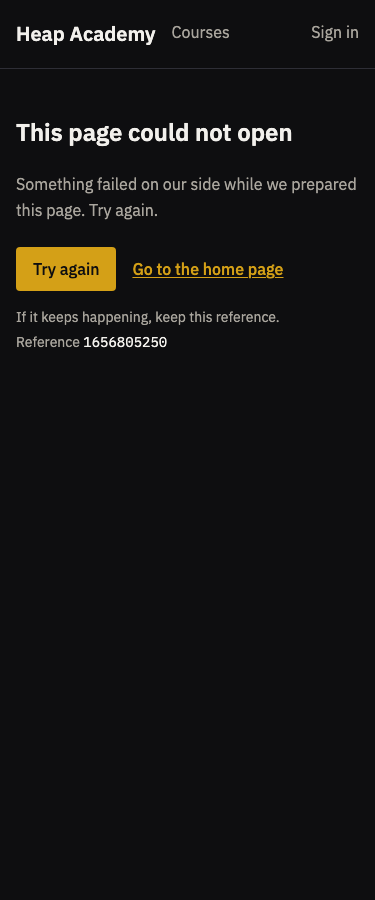
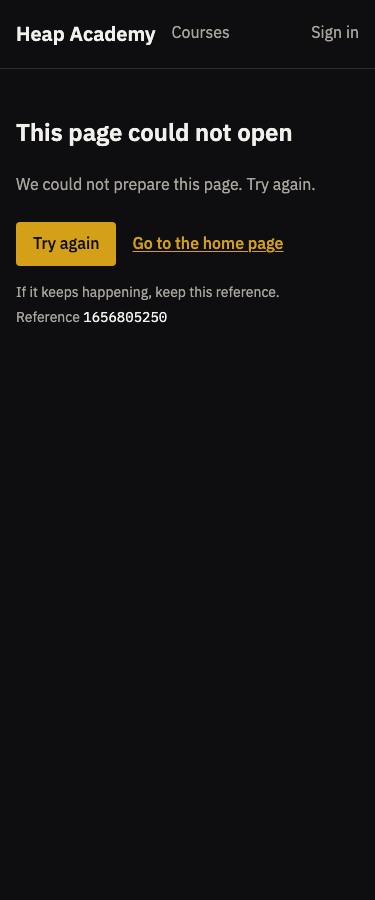
fix(copy): the error page says "We could not prepare this page. Try again."
WP-5.1 owner action 6, decided 2026-11-24. The catalog's error screens
were taken again. Also the WP-5.1 description, part 8, and progress.

Changed region(s): [[0.0293, 0.1867, 0.968, 0.4044]]

diff --git a/src/messages/system.ts b/src/messages/system.ts
@@ -10,7 +10,7 @@ export const notFound = {
 export const errorPage = {
   title: "This page could not open",
   heading: "This page could not open",
-  body: "Something failed on our side while we prepared this page. Try again.",
+  body: "We could not prepare this page. Try again.",
   retry: "Try again",
   homeLink: "Go to the home page",
   referenceHint: "If it keeps happening, keep this reference.",

diff --git a/docs/reports/pull-requests/wp/5.1-catalog.md b/docs/reports/pull-requests/wp/5.1-catalog.md
@@ -1,6 +1,6 @@
 <!-- No AI attribution in this description or in any commit: no co-author trailer, no "Generated with" line, no session link (CLAUDE.md rule 15). -->
 
-**WP-5.1, part 7: built and reviewed three times, with a fourth security review of part 7; not ready to merge until the owner runs the stack journey.** Part 1 built the content layer and the indexing files. Part 2 built the three pages and Courses in the header. Part 3 added the indexing test for every page, a development gallery, the e2e specs with axe, 320 px and screenshots, and the Delivery Gate report from source. Part 4 ran the code, security and design reviews and fixed their findings; the biggest change is that a failed content read now answers 500 with the error page instead of 200 with `noindex`. Part 5 ran the three reviews again and fixed their findings; the biggest fix is to the e2e journey, whose setup could never have passed. Part 6 ran the gallery spec in Chromium for the first time (this sandbox starts Chromium with `--no-sandbox --single-process`), took the screens, ran design review 3, added an e2e spec and screens for the "Could not load" state and for focus, and fixed the spacing the review measured. Part 7 (after your approvals of 2026-11-24) did owner action 7: every cached content reader now builds its client from the same database address that forms its cache key. Still not run: the stack journey (`e2e/catalog-journey.spec.ts`), which needs the local Supabase stack, and with it the screens of the real pages. Base: `wp/4.1-courses-chapters`, because WP-5.1 depends on WP-4.1 and WP-4.1 is not merged yet. Until it merges, this branch also shows WP-4.1's commits.
+**WP-5.1, part 7: built and reviewed three times, with a fourth security review of part 7; not ready to merge until the owner runs the stack journey.** Part 1 built the content layer and the indexing files. Part 2 built the three pages and Courses in the header. Part 3 added the indexing test for every page, a development gallery, the e2e specs with axe, 320 px and screenshots, and the Delivery Gate report from source. Part 4 ran the code, security and design reviews and fixed their findings; the biggest change is that a failed content read now answers 500 with the error page instead of 200 with `noindex`. Part 5 ran the three reviews again and fixed their findings; the biggest fix is to the e2e journey, whose setup could never have passed. Part 6 ran the gallery spec in Chromium for the first time (this sandbox starts Chromium with `--no-sandbox --single-process`), took the screens, ran design review 3, added an e2e spec and screens for the "Could not load" state and for focus, and fixed the spacing the review measured. Part 7 (after your approvals of 2026-11-24) did owner action 7: every cached content reader now builds its client from the same database address that forms its cache key. Part 8 did owner actions 5 and 6 as you decided on 2026-11-24. The lint fix is its own branch from `main`, `wp/fix-lint-template-import`. On this branch, the error page now says "We could not prepare this page. Try again." Still not run: the stack journey (`e2e/catalog-journey.spec.ts`), which needs the local Supabase stack, and with it the screens of the real pages. Base: `wp/4.1-courses-chapters`, because WP-5.1 depends on WP-4.1 and WP-4.1 is not merged yet. Until it merges, this branch also shows WP-4.1's commits.
 
 ## Up to date with main
 
@@ -112,6 +112,11 @@ Part 6, code review 3's findings (commits 9268830 and b911903; report `code-revi
 43. **Comments** (code MINOR 2 and NITs 5, 6): the outage spec says why each page takes about 14 s (the database library tries a refused read three more times, after 1, 2 and 4 s, and a failed view reads twice) and that its port must match `outagePort`; the gallery spec points to the outage spec for a failed read.
 44. **Tests added**: two in `warm-cache.test.ts` (the answers of two databases, list and course page, are kept apart) and one in `public-client.test.ts` (`publicDatabaseAddress` reads the environment when called). All three failed before the change (`Tests  3 failed | 4 passed (7)`), then passed.
 
+Part 8, your decisions of 2026-11-24 on owner actions 5 and 6:
+
+45. **The error page's wording** (`src/messages/system.ts`; design review 2 finding 4, design review 3 finding 9, owner action 6). The body is now "We could not prepare this page. Try again.", as you decided. It replaces WP-1.4's "Something failed on our side while we prepared this page. Try again.". The heading, Try again, the home link and the reference are unchanged. The `catalog-error-*` screens were taken again. No test names the old sentence.
+46. **The lint gap is fixed on its own branch** (owner action 5). `wp/fix-lint-template-import`, from `origin/main` at 7875ee2, pushed. It refuses a computed `import()` or `require()` and checks a backtick name like a quoted one. Its description says how to resolve its conflict with this branch: keep both sides, this branch's `CONTENT_INFRASTRUCTURE` rule and that branch's import handling. Nothing on this branch changed for it.
+
 Left: the owner runs the stack journey (below); the screens of the real pages, the click-through and the current Courses marker on `/courses` appear only then.
 
 ## Work package
@@ -121,6 +126,29 @@ Left: the owner runs the stack journey (below); the screens of the real pages, t
 - Time box: 3 hours. Taken: part 1 ran from about 18:15 to 18:35 on 2026-11-23, part 2 from about 18:40 to 19:05, part 3 from about 19:10 to 19:45, part 4 from about 19:55 to 20:20, part 5 from about 20:35 to 21:05, part 6 from about 13:53 to 15:15 on 2026-11-24 (most of it waiting for the three reviews), about 3.6 hours in all by the clock: over the 3 hour box, under the 4.5 hours at which the handbook says to stop and report.
 
 ## How it was verified
+
+### Part 8
+
+- `src/messages/system.ts`: the error page body is "We could not prepare this page. Try again.".
+- `pnpm verify`, exit 0:
+
+```
+ Test Files  67 passed (67)
+      Tests  1218 passed (1218)
+```
+
+- `next build` with CI's public values: exit 0, the same 15 routes, no `/dev` route.
+- The outage spec against `next start` of that build. It ran on port 3418, with `NEXT_PUBLIC_SUPABASE_URL=http://127.0.0.1:1` and the fake `RESEND_API_KEY` of `playwright.config.ts`, from a temporary Playwright config outside the repository. Chromium ran with `--no-sandbox --single-process` in a project named `chromium`, so the screens are saved. A temporary copy of the spec changed only the port, and was deleted after. Each test ran alone with `-g`:
+
+```
+  ✓  1 [chromium] › e2e/catalog-outage-3418.spec.ts:29:3 › [FR-SYS-01] [NFR-A11Y-02] [NFR-A11Y-05] / shows the error page when the courses cannot be read (14.5s)
+  ✓  1 [chromium] › e2e/catalog-outage-3418.spec.ts:29:3 › [FR-SYS-01] [NFR-A11Y-02] [NFR-A11Y-05] /courses shows the error page when the courses cannot be read (14.5s)
+  ✓  1 [chromium] › e2e/catalog-outage-3418.spec.ts:29:3 › [FR-SYS-01] [NFR-A11Y-02] [NFR-A11Y-05] /courses/python-basics shows the error page when the courses cannot be read (14.5s)
+```
+
+- The nine `catalog-error-*` screens were taken again. Looked at: `catalog-error-courses-375.png` shows the new sentence.
+- The first attempt, on port 3417 without `RESEND_API_KEY`, failed every test (`Invalid environment. See .env.example. RESEND_API_KEY: required`). That was a setup mistake, not the page.
+- Not run: `pnpm test:db` and the stack journey (no Docker). Design review was not run again for a one-sentence copy change the reviewer proposed. WP-1.4's `error-*` screens of `/dev/error` still show the old sentence: they are WP-1.4's evidence and were not taken again.
 
 ### Part 7
 
@@ -365,7 +393,7 @@ Round 2, on `af42bd5..08c8087`; full reports `*-review-2.md`.
 
 Round 3, part 6, on `08c8087..abf86db` and the first 12 screens.
 
-- `design-reviewer` (`design-review-3.md`): **CHANGES REQUIRED**. The reviewer is read-only; its report was saved verbatim. Finding 1 BLOCKER (journey screens, click-through, current marker): open, needs the stack. Finding 2 BLOCKER (no failure screen): fixed, item 38. Finding 3 MAJOR (focus): fixed, item 39. Finding 4 MAJOR (this description out of date, screens uncommitted, R-27 wording, decision 18): fixed in this description and 4c41f93. Finding 5 MAJOR (no primary action): Deviation 1, the owner's decision. Findings 6, 7 and 10 MINOR (spacing): fixed, items 36 and 37. Finding 8 MINOR (header baselines 3 px apart, `site-shell.tsx`): not changed, decision 29. Finding 9 MINOR (error page wording): owner action 6.
+- `design-reviewer` (`design-review-3.md`): **CHANGES REQUIRED**. The reviewer is read-only; its report was saved verbatim. Finding 1 BLOCKER (journey screens, click-through, current marker): open, needs the stack. Finding 2 BLOCKER (no failure screen): fixed, item 38. Finding 3 MAJOR (focus): fixed, item 39. Finding 4 MAJOR (this description out of date, screens uncommitted, R-27 wording, decision 18): fixed in this description and 4c41f93. Finding 5 MAJOR (no primary action): Deviation 1, the owner's decision. Findings 6, 7 and 10 MINOR (spacing): fixed, items 36 and 37. Finding 8 MINOR (header baselines 3 px apart, `site-shell.tsx`): not changed, decision 29. Finding 9 MINOR (error page wording): fixed in part 8, item 45, with the wording you chose.
 - `code-reviewer` (`code-review-3.md`) on 621d4aa and c820910: **CHANGES REQUIRED**. MAJOR 1 (the outage server could serve the shared cache): fixed, item 41, reproduced before and after. MINOR 2 (the 14 s wait): recorded in the spec, item 43; an address that fails without retries would need a listening server, not added. MINOR 3 (2.4 px at `text-base`): recorded in the comment, item 42. MINOR 4 (no layout check): fixed, item 42. NITs 5 and 6: fixed, item 43. The reviewer is read-only; its report was saved verbatim.
 - `security-reviewer` (`security-review-3.md`) on 621d4aa, c820910, 9268830 and b911903: **APPROVE** with one minor and one note. MINOR 1 (the key's address and the client's address are read separately, and each future cached query must remember to pass it): not changed here; the reviewer says it is not needed for this pull request and should land with or before the next cached query (owner action 7). Note (the config's "no test reaches Supabase or Resend" has been wrong since the `stack` project): left for the next change to that file, as the reviewer suggests.
 
@@ -388,8 +416,8 @@ Round 4, part 7, on the cache helper diff.
 2. Decide the merge order for the missing primary action (Deviations, item 1).
 3. The stack project now also saves the WP-2.3 and WP-4.1 journeys' screens; commit them when they appear.
 4. Confirm decision 9 with the round 2 measurements (blank 500 document until scripts run, 14 seconds, two reads per failed request).
-5. Decide whether to fix security MINOR A (a backtick `import()` passes the lint boundary rule) as its own small change before WP-6.x adds `privileged.ts`. It is older than this branch and was not edited here.
-6. Decide the error page's wording (design finding 4): "Something failed on our side while we prepared this page." is WP-1.4's, and is now what a visitor sees when the catalog fails; the reviewer suggests "We could not prepare this page. Try again."
+5. Done in part 8: you decided to fix security MINOR A as its own small branch. It is `wp/fix-lint-template-import`, from `main`, pushed (item 46).
+6. Done in part 8: you chose "We could not prepare this page. Try again." (item 45).
 7. Done in part 7 (a2f4122): one helper in `src/content/published.ts` reads the database address once and passes it to both the cache key and the client (security review 3, MINOR 1). A cached query WP-5.2 adds goes through `cachedReader` with a key part of its own.
 
 ## Decisions taken with a safe default (approved by you on 2026-11-24)
@@ -400,7 +428,7 @@ You approved every decision below and every recommendation in this description o
 - Decision 9 (owner action 4): `03-experience.md` section 8, a note that "Could not load" on the catalog pages is the shared error page with status 500.
 - Decision 15: `03-experience.md` section 3, a row for `/admin/courses/new`, not indexed.
 - Deviation 1 (owner action 2): the recommendation stands. Merge WP-5.2 first or right after this one; then Begin (`Link variant="action"`) goes on lesson 1.1 and the lesson rows become links. This branch stays as it is until then.
-- Decisions 1, 3 to 8, 10 to 14, 16 to 29: as built; no spec text changes. Decision 22's cleanup of physical CSS forms elsewhere, owner action 5 (security MINOR A) and owner action 6 (the error page's wording) give no recommendation, so they stay open.
+- Decisions 1, 3 to 8, 10 to 14, 16 to 29: as built; no spec text changes. Decision 22's cleanup of physical CSS forms elsewhere gives no recommendation, so it stays open. You decided owner actions 5 and 6 separately on 2026-11-24 (part 8).
 
 Each spec change is marked **"Approved by the owner on 2026-11-24"**.
 

diff --git a/docs/reports/local-build-progress.md b/docs/reports/local-build-progress.md
@@ -2,6 +2,38 @@
 
 Work done in sessions while the owner was away, and what is left for the owner to run. Newest first. The newest copy of this file is on the branch named in its first section.
 
+## Session of 2026-11-24 (from about 19:24), in `night-b`, WP-5.1 owner actions 5 and 6
+
+New owner decisions (WP-5.1): action 5, fix the backtick `import()` lint gap as its own small branch from `origin/main`; action 6, the error page says "We could not prepare this page. Try again.". Pull requests are opened and updated from the owner's chat, so this session does not wait for descriptions to be pasted.
+
+`git fetch` at 19:24: `origin/main` is still at 7875ee2, and it already has #10. 2.2, 2.3, 4.1, 4.2, 4.3 and 5.1 already contain it. Task 1 has nothing to do.
+
+### Task 2a done: owner action 5, `wp/fix-lint-template-import` (pushed 9f15550)
+
+- Started at 19:24, from `origin/main` at 7875ee2.
+- 01c8227: the module boundary rule checks a backtick name like a quoted one, refuses an `import()` or `require()` whose name is computed (except the Python worker's `import(url)`), and lets only a test import a test file. This is bce0f08 from `wp/3.3-grader` (also on 3.4, 4.3 and 5.2) without its Node runner parts, so the open branches carry the same text. 9f15550: a test for a joined name and for the worker's other imports, the description and both reviews.
+- Security review 1 (on a first, uncommitted version that refused computed names only in `src/content`): CHANGES REQUIRED, two MAJORs, both fixed by taking bce0f08's text. Security review 2: APPROVE, two MINORs. MINOR 1 is fixed. MINOR 2 (`require` called through another name) is older than the branch, and is listed in the description.
+- The new tests against `main`'s rule: 6 failed, then 1 more for the joined-name test. With the change: 141 passed. `pnpm verify`: exit 0, 28 files, 726 tests.
+- Merging it into 4.3, 5.1 or 5.2 conflicts in `scripts/eslint/module-boundaries.mjs` (and `rules.test.ts` for 4.3 and 5.2). The description says how to resolve each, and the reviewer checked those resolutions in a copy.
+- Description: `docs/reports/pull-requests/fix-lint-template-import.md` on that branch. This file was not updated there, because that branch has `main`'s older copy; this section is its record.
+
+### Task 2b done: owner action 6 on `wp/5.1-catalog`
+
+- Started at 19:35. `src/messages/system.ts`: the error page body is "We could not prepare this page. Try again.".
+- `pnpm verify`: exit 0, 67 files, 1218 tests. `next build` with CI's public values: exit 0, 15 routes, no `/dev` route.
+- The outage spec against `next start` of that build on port 3418, in Chromium with `--no-sandbox --single-process`: 3 passed. The nine `catalog-error-*` screens were taken again; `catalog-error-courses-375.png` shows the new sentence. The first try on port 3417 lacked `RESEND_API_KEY` and failed at the server's environment check; that server was stopped.
+- Description: `docs/reports/pull-requests/wp/5.1-catalog.md`, part 8 (items 45 and 46), owner actions 5 and 6 marked done.
+
+Decisions taken with a safe default:
+
+- I. The lint fix reuses bce0f08's text rather than a new rule, so one version of the check reaches every branch (security review 1's advice).
+- J. Design review was not run again for the one-sentence copy change, which is the wording the design reviewer proposed. WP-1.4's `/dev/error` screens were not taken again.
+
+### Owner: run this
+
+1. Open a pull request for `wp/fix-lint-template-import` (base `main`) with its description.
+2. As before: the WP-5.1 stack journey with the local stack, then design review 4 on `home`, `courses` and `course`.
+
 ## Session of 2026-11-24 (from about 18:06, checked again at 18:08, 18:09, 18:11, 18:13, 18:14, 18:16, 18:17, 18:19, 19:17, 19:19, 19:20, 19:22 and 19:23), in `night-b`, nothing to do
 
 - `git fetch` at 18:06, 18:08, 18:09, 18:11, 18:13, 18:14, 18:16, 18:17, 18:19, 19:17, 19:19, 19:20, 19:22 and 19:23: `origin/main` is still at 7875ee2, and it already contains #10 (`origin/wp/fix-smoke-and-runtime` at 27ce416 is an ancestor). 2.2, 2.3, 4.1, 4.2, 4.3 and 5.1 already contain it, and every local head matches its remote except `wp/5.1-catalog`, which was nine progress commits ahead before the 18:11 check (the 19:23 check makes twenty; each check updates this section instead of adding another identical one). `wp/2.1-schema-policies` is merged. Task 1 has nothing to do.
